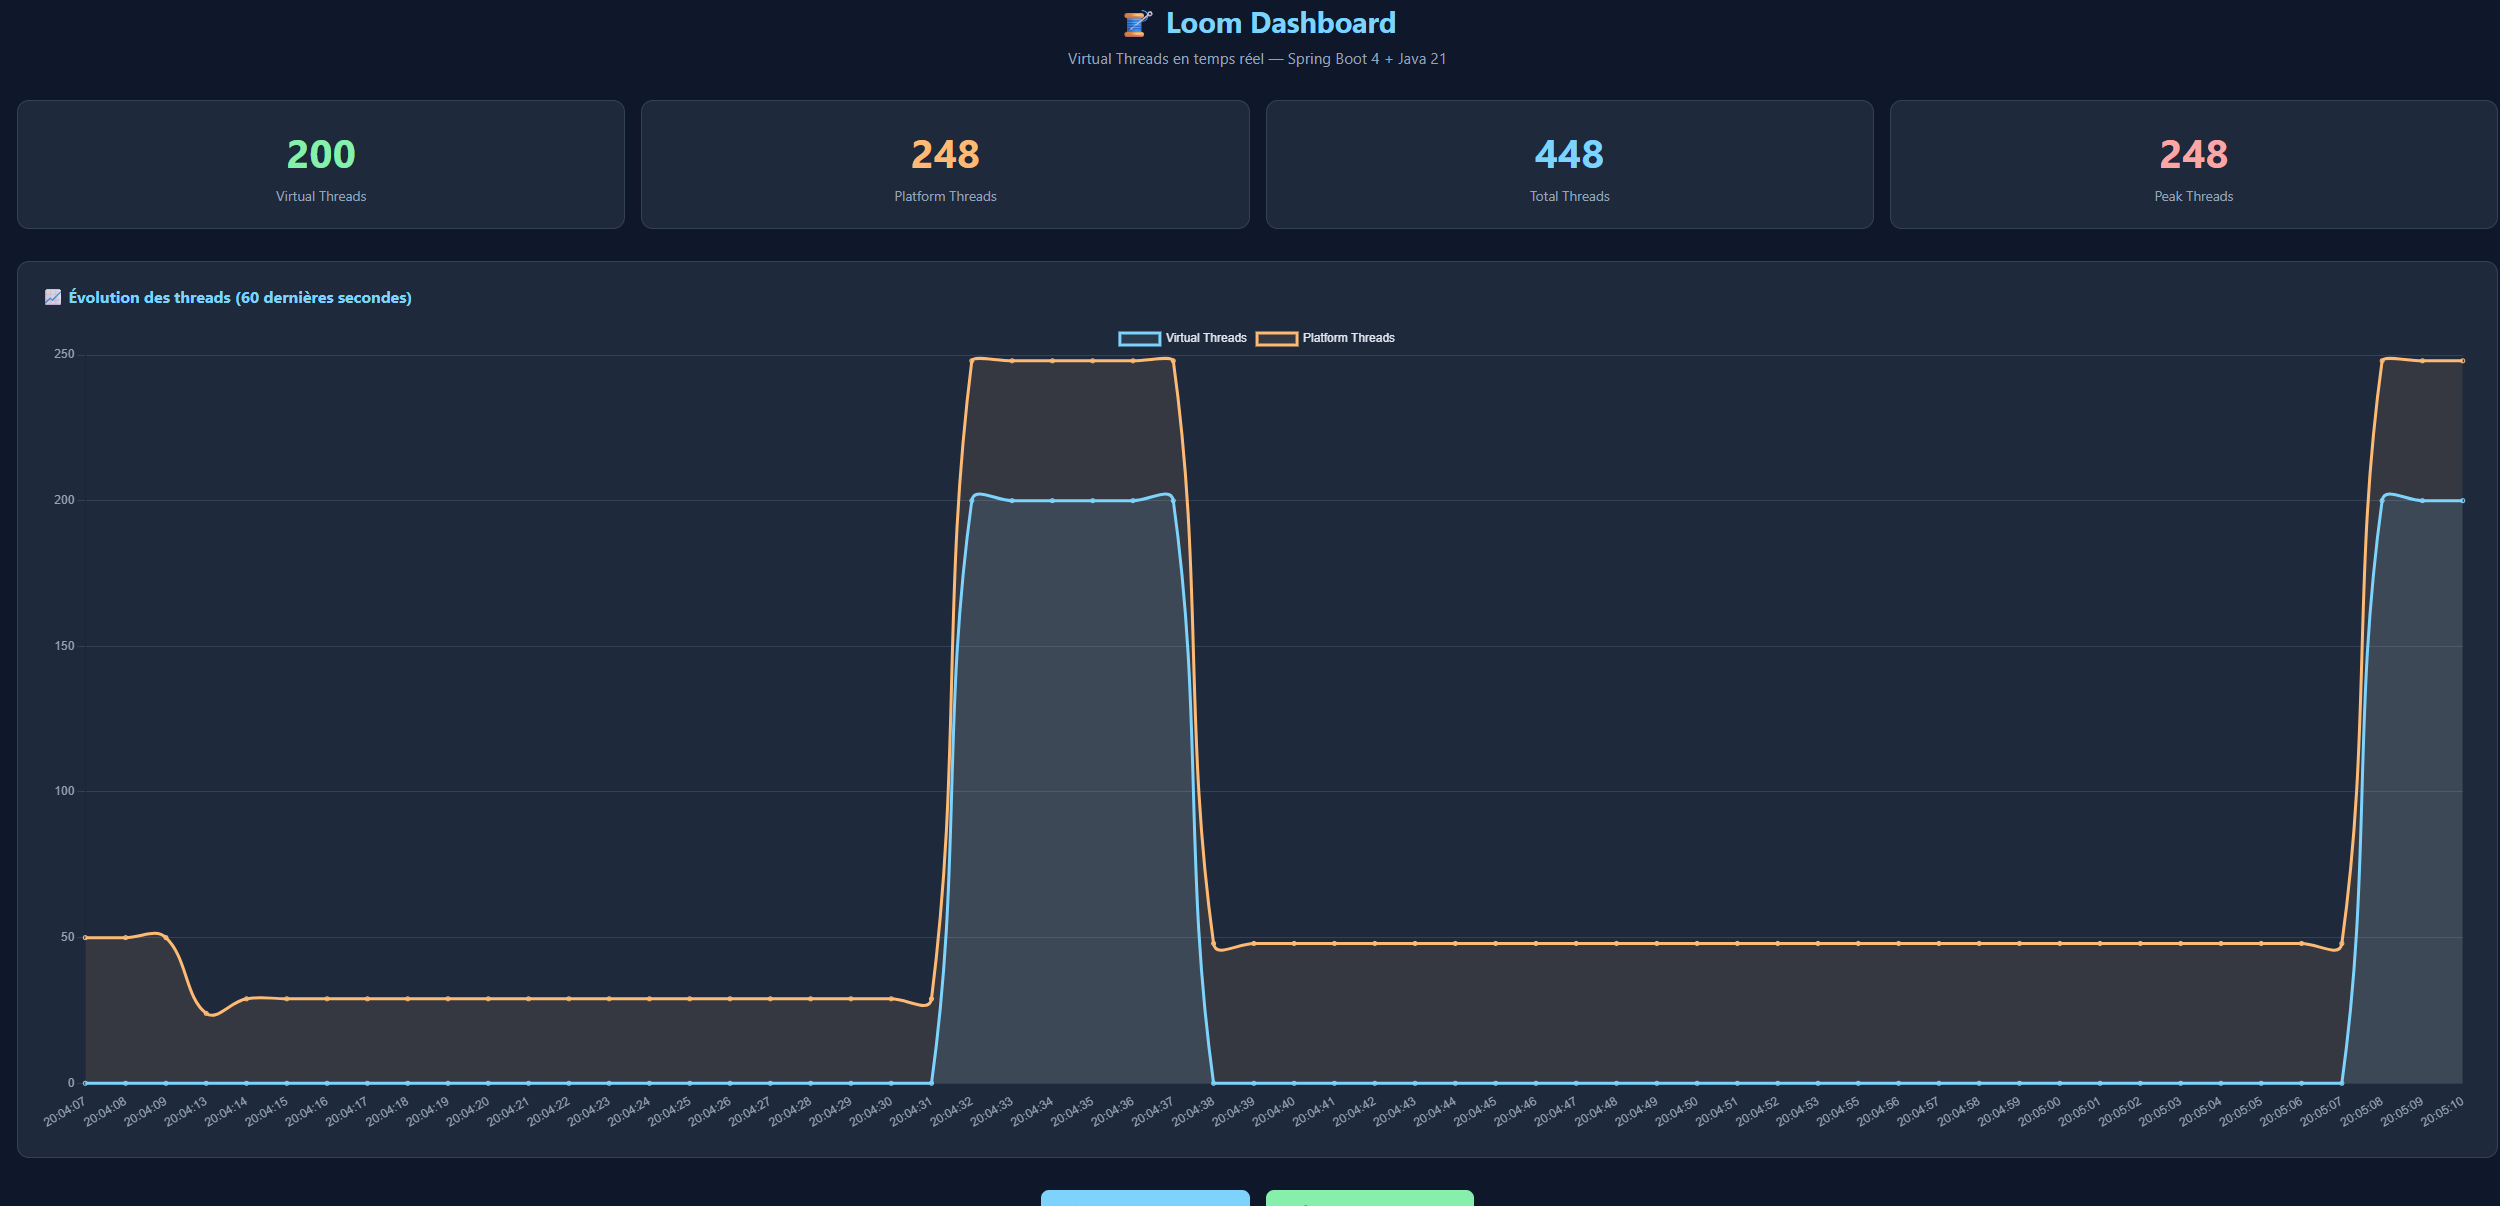
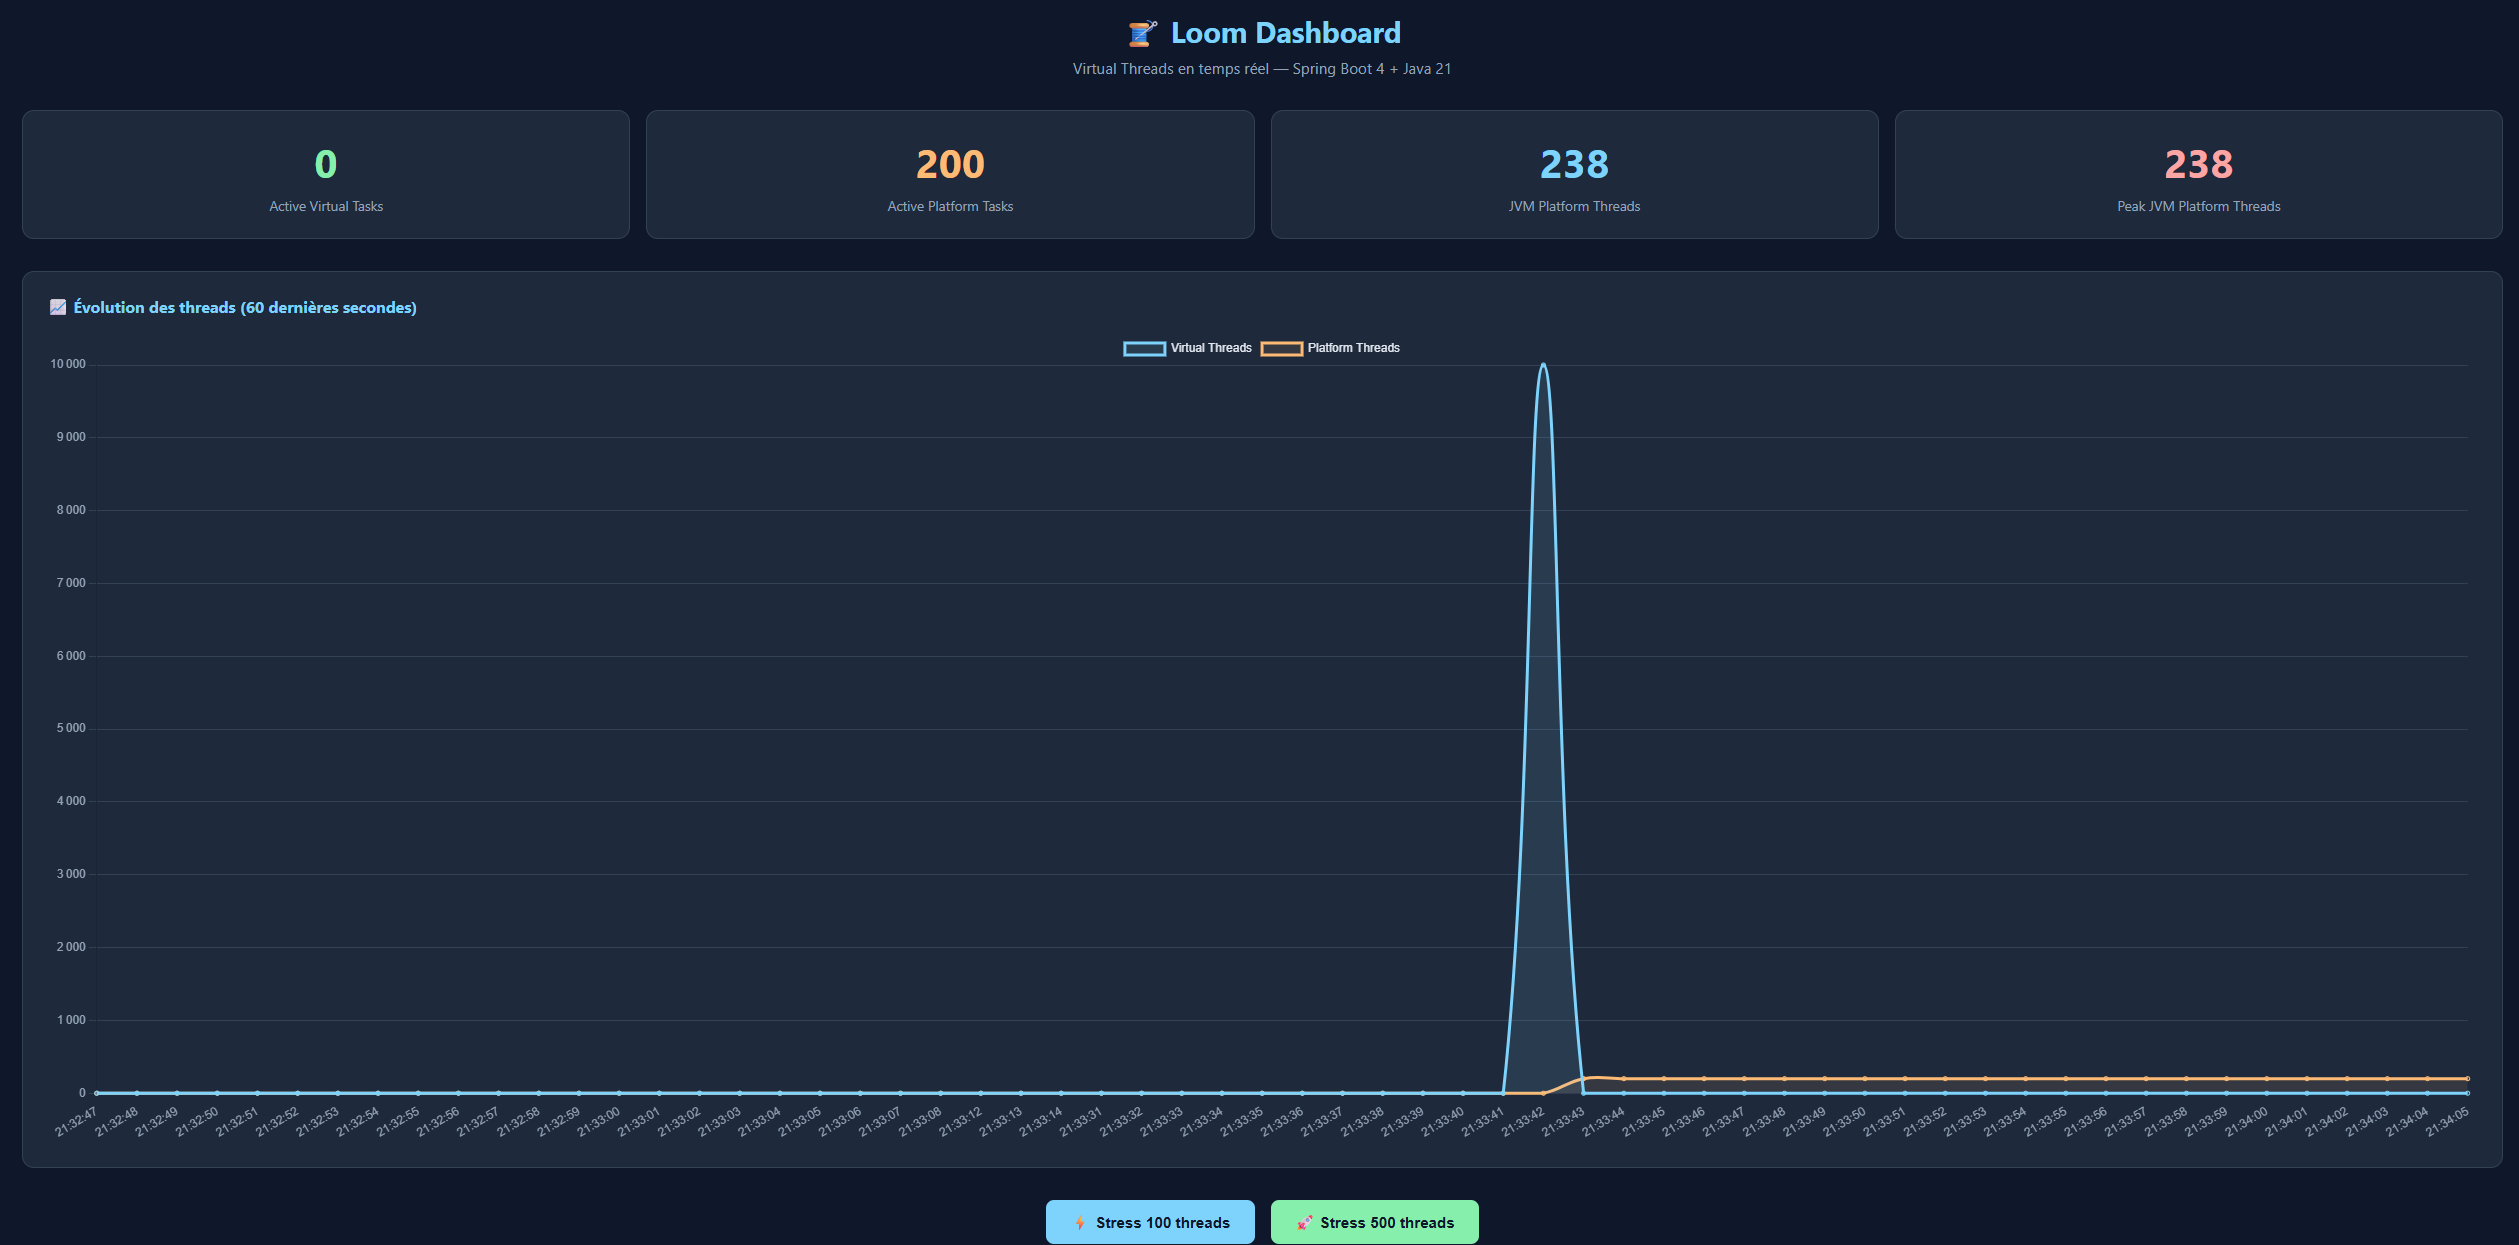
docs: clarify benchmark results

diff --git a/README.md b/README.md
@@ -41,9 +41,29 @@ You can tweak the following values in application.properties:
 ## Benchmark
 
 You can run a benchmark comparing virtual threads against platform threads.  
-Here with 1000 parallel tasks for each type.
+Here with 10,000 blocking tasks for each type.
 
-![Benchmark results](docs/images/benchmark.png)
+With virtual threads, almost all tasks can be started at once. In the dashboard,
+`activeVirtualTasks` can briefly peak near 10,000, then quickly drop when the
+simulated blocking work finishes.
+
+With platform threads, the benchmark uses a fixed thread pool of 200 threads.
+Only 200 tasks can run at the same time, while the remaining tasks wait in the
+executor queue. The workload therefore lasts longer and `activePlatformTasks`
+stays around 200 until all queued tasks are processed.
+To match the same level of concurrency with platform threads, the JVM would need
+to create thousands of native OS threads, which is much more expensive and may
+hit system limits.
+On a typical modern developer machine with 16-32 GB of RAM and 8-24 logical
+processors, creating more than a few hundred platform threads in parallel is
+usually not recommended for regular application workloads.
+
+This benchmark shows that virtual threads are especially useful for highly
+concurrent blocking workloads, such as database calls, HTTP calls, file I/O, or
+any operation where threads spend most of their time waiting. It does not mean
+that virtual threads make CPU-bound work faster.
+
+![img.png](docs/images/benchmark.png)
 
 ## Pinning
 
